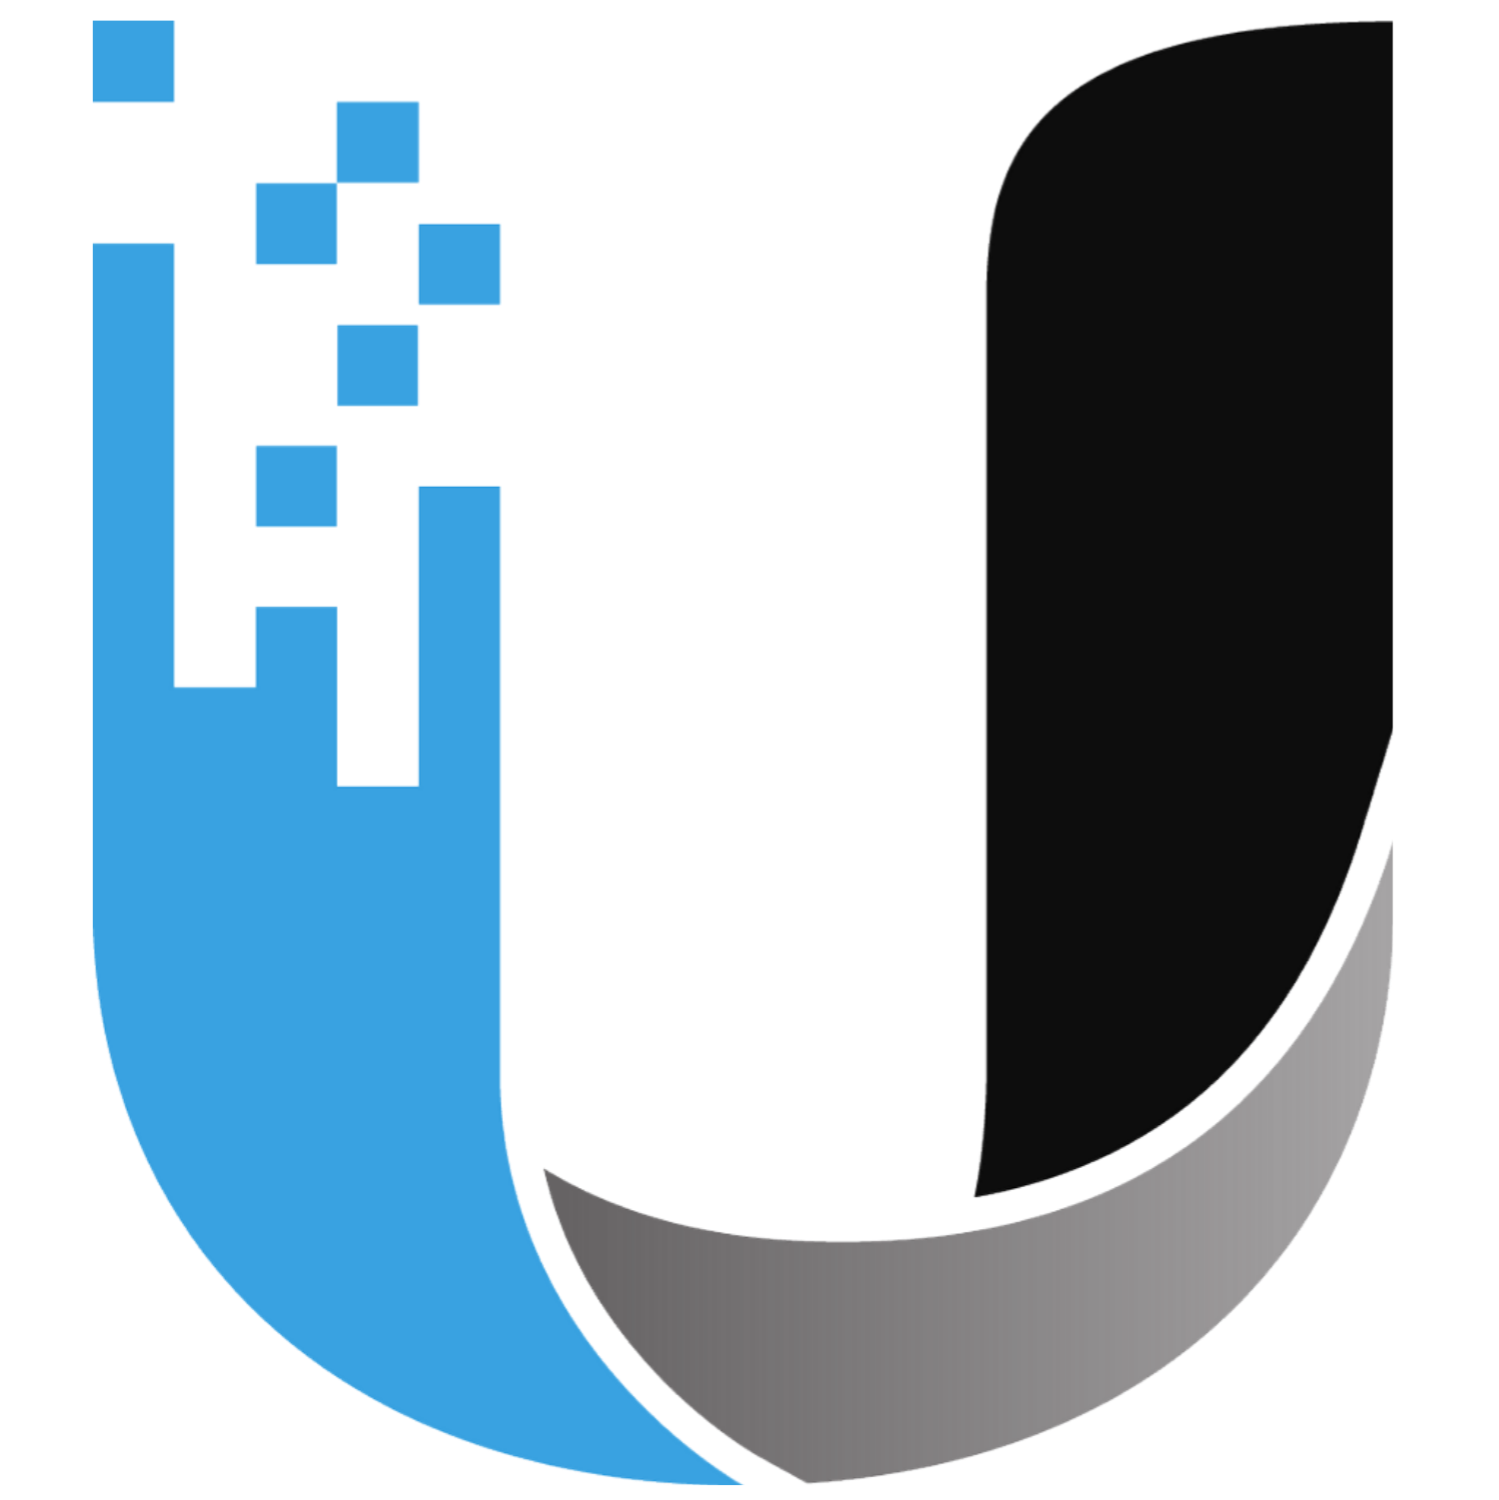
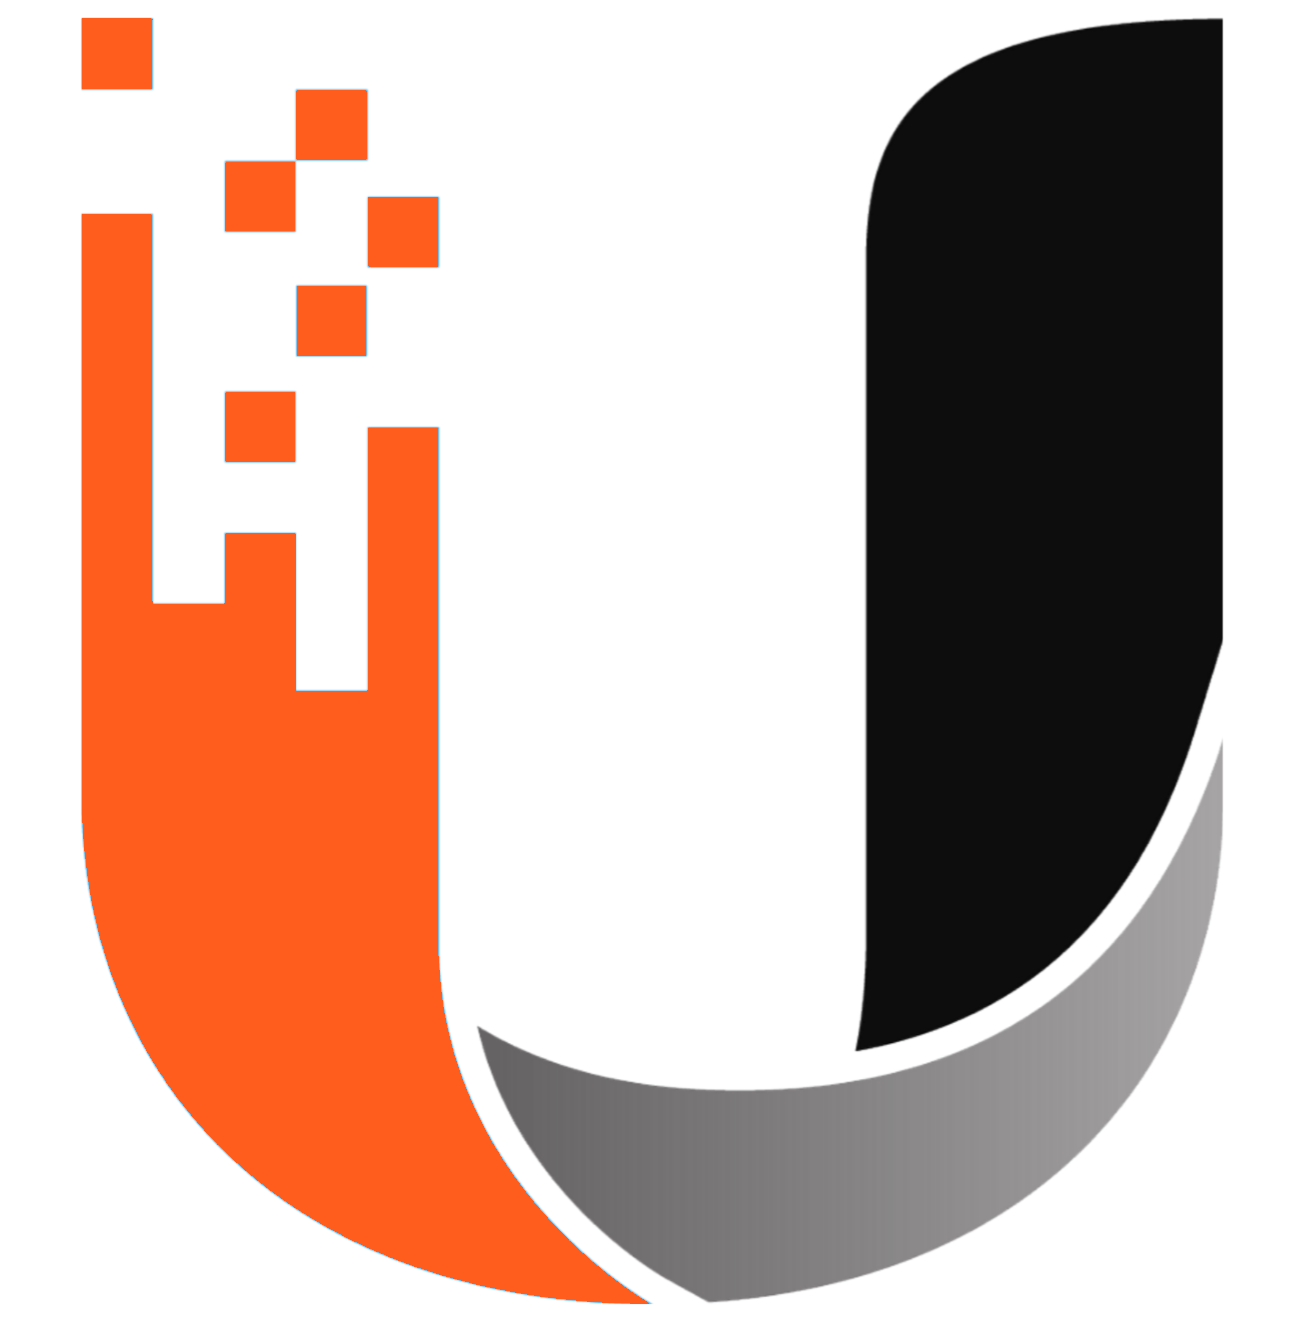
updated about partner footer

diff --git a/src/Pages/Home/Footer/Footer.jsx b/src/Pages/Home/Footer/Footer.jsx
@@ -2,49 +2,61 @@
 
 const Footer = () => {
     return (
-        <footer className="footer h-screen grid-rows-2 p-10 bg-white text-black">
-            <nav>
-                <header className="footer-title">Services</header>
-                <a className="link link-hover">Branding</a>
-                <a className="link link-hover">Design</a>
-                <a className="link link-hover">Marketing</a>
-                <a className="link link-hover">Advertisement</a>
-            </nav>
-            <nav>
-                <header className="footer-title">Company</header>
-                <a className="link link-hover">About us</a>
-                <a className="link link-hover">Contact</a>
-                <a className="link link-hover">Jobs</a>
-                <a className="link link-hover">Press kit</a>
-            </nav>
-            <nav>
-                <header className="footer-title">Legal</header>
-                <a className="link link-hover">Terms of use</a>
-                <a className="link link-hover">Privacy policy</a>
-                <a className="link link-hover">Cookie policy</a>
-            </nav>
-            <nav>
-                <header className="footer-title">Social</header>
-                <a className="link link-hover">Twitter</a>
-                <a className="link link-hover">Instagram</a>
-                <a className="link link-hover">Facebook</a>
-                <a className="link link-hover">Github</a>
-            </nav>
-            <nav>
-                <header className="footer-title">Explore</header>
-                <a className="link link-hover">Features</a>
-                <a className="link link-hover">Enterprise</a>
-                <a className="link link-hover">Security</a>
-                <a className="link link-hover">Pricing</a>
-            </nav>
-            <nav>
-                <header className="footer-title">Apps</header>
-                <a className="link link-hover">Mac</a>
-                <a className="link link-hover">Windows</a>
-                <a className="link link-hover">iPhone</a>
-                <a className="link link-hover">Android</a>
-            </nav>
-        </footer>
+        <div>
+            <div className="px-10  bg-black h-[calc(100vh-420px)] text-white  grid grid-cols-4">
+                <div className=" pt-5 flex flex-col gap-5">
+                    <h1 className="text-xl font-semibold">Get in Touch</h1>
+                    <div className="space-y-2">
+                        <p>Lorem ipsum dolor, sit amet consectetur adipisicing elit. Veniam, vel.</p>
+                        <p>Gmail</p>
+                        <p>Number</p>
+                    </div>
+                </div>
+                <div className=" flex items-start justify-center pt-5 ">
+                    <nav className="flex flex-col justify-center">
+                        <h2 className="text-xl font-semibold">Company</h2>
+                        <ul className="flex flex-col justify-center gap-2 mt-20">
+                            <li>About Us</li>
+                            <li>Our Office</li>
+                            <li>Privacy Policy</li>
+                            <li>About Us</li>
+                            <li>Our Office</li>
+                            <li>Privacy Policy</li>
+                        </ul>
+                    </nav>
+                </div>
+                <div className=" flex items-start justify-center pt-5 ">
+                    <nav className="flex flex-col justify-center">
+                        <h2 className="text-xl font-semibold">Services</h2>
+                        <ul className="flex flex-col justify-center gap-2 mt-20">
+                            <li>About Us</li>
+                            <li>Our Office</li>
+                            <li>Privacy Policy</li>
+                            <li>About Us</li>
+                            <li>Our Office</li>
+                            <li>Privacy Policy</li>
+                        </ul>
+                    </nav>
+                </div>
+                <div className=" flex items-start justify-center pt-5 ">
+                    <nav className="flex flex-col justify-center">
+                        <h2 className="text-xl font-semibold">Company</h2>
+                        <ul className="flex flex-col justify-center gap-2 mt-20">
+                            <li>About Us</li>
+                            <li>Our Office</li>
+                            <li>Privacy Policy</li>
+                            <li>About Us</li>
+                            <li>Our Office</li>
+                            <li>Privacy Policy</li>
+                        </ul>
+                    </nav>
+                </div>
+
+            </div>
+            <div className="h-10 bg-gray-200 flex items-center justify-center">
+                <p className="">copyright usernest.com 2023-2024 </p>
+            </div>
+        </div>
     );
 };
 

diff --git a/src/Pages/Home/AboutUs/AboutUs.jsx b/src/Pages/Home/AboutUs/AboutUs.jsx
@@ -2,6 +2,7 @@
 import { useState } from 'react';
 import ScrollTrigger from 'react-scroll-trigger';
 import NumberCount from '../../../Components/NumberCount/NumberCount';
+import img1 from '../../../assets/partner/a- (1).png'
 const AboutUs = () => {
     const [counterOn, setCounterOn] = useState(false);
     console.log(counterOn)
@@ -10,7 +11,7 @@ const AboutUs = () => {
             
                 <h2 className='text-3xl text-center pt-5'>About us</h2>
 
-                <ScrollTrigger className='h-[90vh] flex justify-center gap-4 pt-20' duration = {500} onEnter={() => setCounterOn(true)} onExit={() => setCounterOn(false)}>
+                <ScrollTrigger className=' flex justify-center items-center gap-4 py-5 mt-5 rounded-xl bg-gray-100 w-[calc(100vw-80px)] mx-auto' duration = {500} onEnter={() => setCounterOn(true)} onExit={() => setCounterOn(false)}>
                     <div className="flex flex-col items-center">
                         <h1 className="text-xl font-bold">Our Total user</h1>
                         {counterOn && <p className="text-3xl font-extrabold"> <NumberCount endValue={2000}></NumberCount>+</p>}
@@ -32,6 +33,29 @@ const AboutUs = () => {
                     </div>
                 </ScrollTrigger >
             
+            <div className='  h-[calc(100%-100px)] grid grid-cols-3 gap-5 py-5 px-10'>
+                <div className='h-full w-full bg-orange-200 rounded-xl px-10 py-5'>
+                        <div className='' >
+                            <h1 className='text-2xl text-center'>Meet the Faces Behind the Data</h1>
+                            <p className='text-center mt-5 opacity-50 '>This heading communicates a sense of empowerment and personal connection, letting users know that your team is there to support and guide them through their digital experience.</p>
+                            
+                        </div>
+                </div>
+                <div className='h-full w-full bg-orange-200 rounded-xl px-10 py-5'>
+                        <div className='' >
+                            <h1 className='text-2xl text-center'>Meet the Faces Behind the Data</h1>
+                            <p className='text-center mt-5 opacity-50 '>This heading communicates a sense of empowerment and personal connection, letting users know that your team is there to support and guide them through their digital experience.</p>
+                            
+                        </div>
+                </div>
+                <div className='h-full w-full bg-orange-200 rounded-xl px-10 py-5'>
+                        <div className='' >
+                            <h1 className='text-2xl text-center'>Meet the Faces Behind the Data</h1>
+                            <p className='text-center mt-5 opacity-50 '>This heading communicates a sense of empowerment and personal connection, letting users know that your team is there to support and guide them through their digital experience.</p>
+                            
+                        </div>
+                </div>
+            </div>
         </div>
     );
 };

diff --git a/src/Components/Navbar/Navbar.jsx b/src/Components/Navbar/Navbar.jsx
@@ -4,7 +4,7 @@ import { AuthContext } from "../AuthProvider/AuthProvider";
 import axios from "axios";
 import { RiLogoutCircleRLine } from "react-icons/ri";
 import { FaRightFromBracket } from "react-icons/fa6";
-import logo from '../../assets/logo.png'
+import logo from '../../assets/logoor.png'
 import { Link as ScrollLink } from 'react-scroll'
 
 const Navbar = () => {
@@ -12,7 +12,7 @@ const Navbar = () => {
     const [uid, setuid] = useState([]);
     const { userId } = uid;
     const { photoURL, displayName } = user || '';
-    const [active, setActive] = useState(false);
+    const [active, setActive] = useState(true);
    
     const handleLogout = e => {
         e.preventDefault();
@@ -52,7 +52,7 @@ const Navbar = () => {
 
     return (
         <div className='h-20'>
-            <div className={`h-8 fixed w-screen z-[60] bg-[#f69e7b] ${active? 'translate-y-0 duration-500':'-translate-y-10 duration-500'}`}>
+            <div className={`h-8 fixed w-screen z-[60] bg-[#fe5d1d] text-black font-bold  ${active? 'translate-y-0 duration-500':'-translate-y-10 duration-500'}`}>
                 <marquee direction="left"><p className="">Here will be published important notice Here will be published important notice Here will be published important notice</p></marquee>
             </div>
             <div className={` h-14  top-0 fixed w-screen z-50 ${active ? 'translate-y-8 duration-500' :'translate-y-0 duration-300'}  bg-white bg-opacity-75 backdrop-blur-lg px-14 grid grid-cols-2 items-center justify-center  `}>
@@ -71,8 +71,8 @@ const Navbar = () => {
                             className={({ isActive, isPending }) =>
                                 isPending ? "pending" : isActive ? "text-[#fe5d1d] font-bold " : ""}> <li>Dashboard</li> </NavLink> : ''
                     }
-                    <ScrollLink to="about" duration={500} spy={true} smooth={true} onSetActive={() => setActiveAbout(true)} onSetInactive={() => setActiveAbout(false)} className={`cursor-pointer`}>About</ScrollLink>
-                    <ScrollLink to="contact" duration={500} spy={true} smooth={true} onSetActive={() => setActiveLink(true)} onSetInactive={() => setActiveLink(false)} className={`cursor-pointer `}>Contact us</ScrollLink>
+                    <ScrollLink to="about" duration={500} spy={true} smooth={true}   className={`cursor-pointer`}>About</ScrollLink>
+                    <ScrollLink to="contact" duration={500} spy={true} smooth={true}   className={`cursor-pointer `}>Contact us</ScrollLink>
 
 
                     {!user ? <>

diff --git a/src/Components/PartnerImages/PartnerImagesBelow.jsx b/src/Components/PartnerImages/PartnerImagesBelow.jsx
@@ -1,0 +1,26 @@
+import img1 from '../../assets/partner/p1.png'
+import img2 from '../../assets/partner/p2.png'
+import img3 from '../../assets/partner/p3.png'
+import img4 from '../../assets/partner/p4.png'
+import img5 from '../../assets/partner/p5.png'
+import img6 from '../../assets/partner/p7.png'
+import img7 from '../../assets/partner/p8.png'
+
+
+const PartnerImagesBelow = () => {
+    return (
+        <div className='flex gap-4'>
+            <img className='w-32' src={img1} alt="" />
+            <img className='w-32' src={img2} alt="" />
+            <img className='w-32' src={img3} alt="" />
+            <img className='w-32' src={img4} alt="" />
+            <img className='w-32' src={img5} alt="" />
+            <img className='w-32' src={img6} alt="" />
+            <img className='w-32' src={img7} alt="" />
+            
+            
+        </div>
+    );
+};
+
+export default PartnerImagesBelow;

diff --git a/src/Pages/Home/Banner/Banner.jsx b/src/Pages/Home/Banner/Banner.jsx
@@ -55,7 +55,7 @@ const Banner = () => {
     const { name, image, email, address, phone, userType, _id } = searchData || '';
 
     return (
-        <div className='h-[calc(100vh-80px)] mt-5 max-w-7xl mx-auto rounded-xl  bg-no-repeat bg-center bg-cover' style={{ backgroundImage: `url(${bg})` }}>
+        <div className='h-[calc(100vh-80px)] mt-4 max-w-7xl mx-auto rounded-xl  bg-no-repeat bg-center bg-cover' style={{ backgroundImage: `url(${bg})` }}>
         <div className={`flex flex-col gap-6   ${seeData? 'bg-black bg-opacity-50 inset-0 h-[calc(100vh-80px)]':''}` }>
             <Toaster />
             <div className=" w-1/2  mt-32   flex  justify-center items-center mx-auto">

diff --git a/src/Pages/Home/Partners/Partners.jsx b/src/Pages/Home/Partners/Partners.jsx
@@ -1,5 +1,6 @@
 import Marquee from "react-fast-marquee";
 import PartnerImages from "../../../Components/PartnerImages/PartnerImages";
+import PartnerImagesBelow from "../../../Components/PartnerImages/PartnerImagesBelow";
 
 const Partners = () => {
     return (
@@ -10,7 +11,7 @@ const Partners = () => {
                 <PartnerImages></PartnerImages>
             </Marquee>
             <Marquee pauseOnHover gradient direction="right">
-                <PartnerImages></PartnerImages>
+                <PartnerImagesBelow></PartnerImagesBelow>
             </Marquee>
             
         </div>
